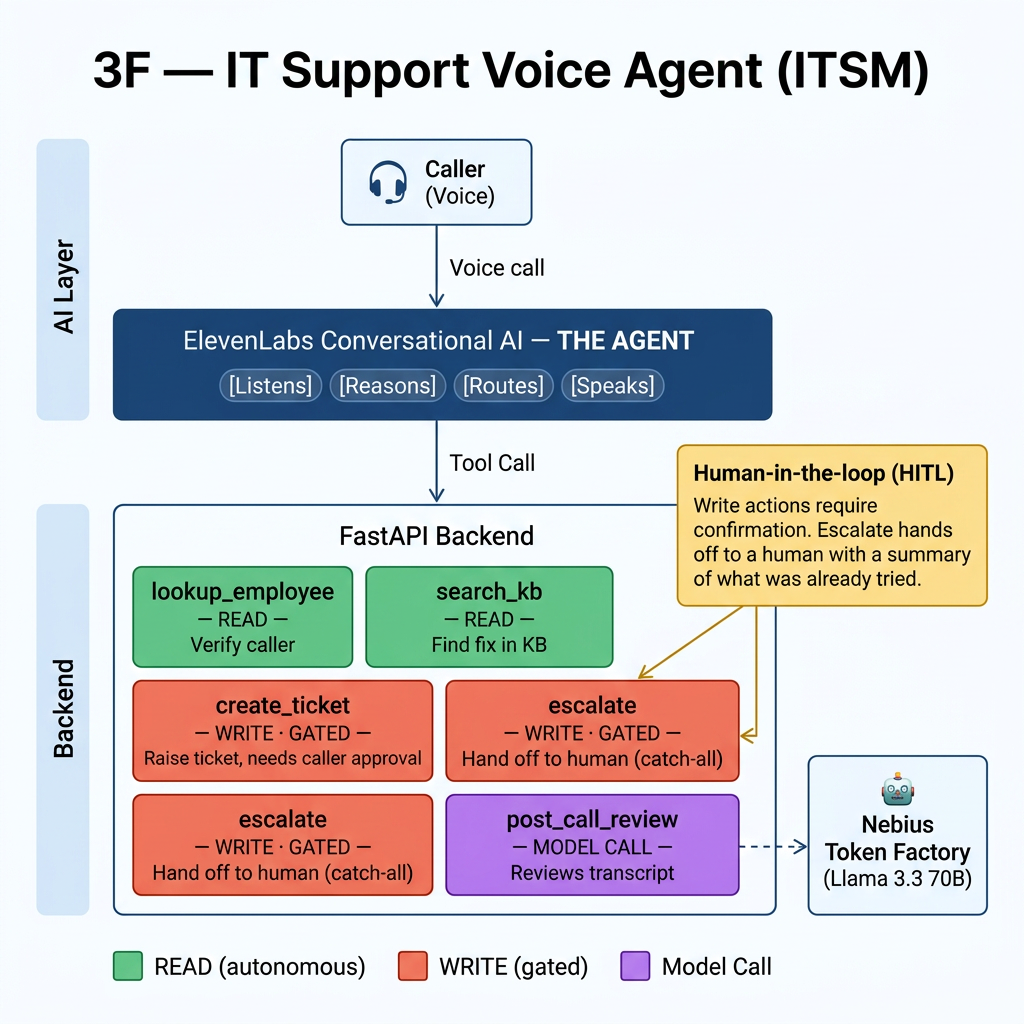
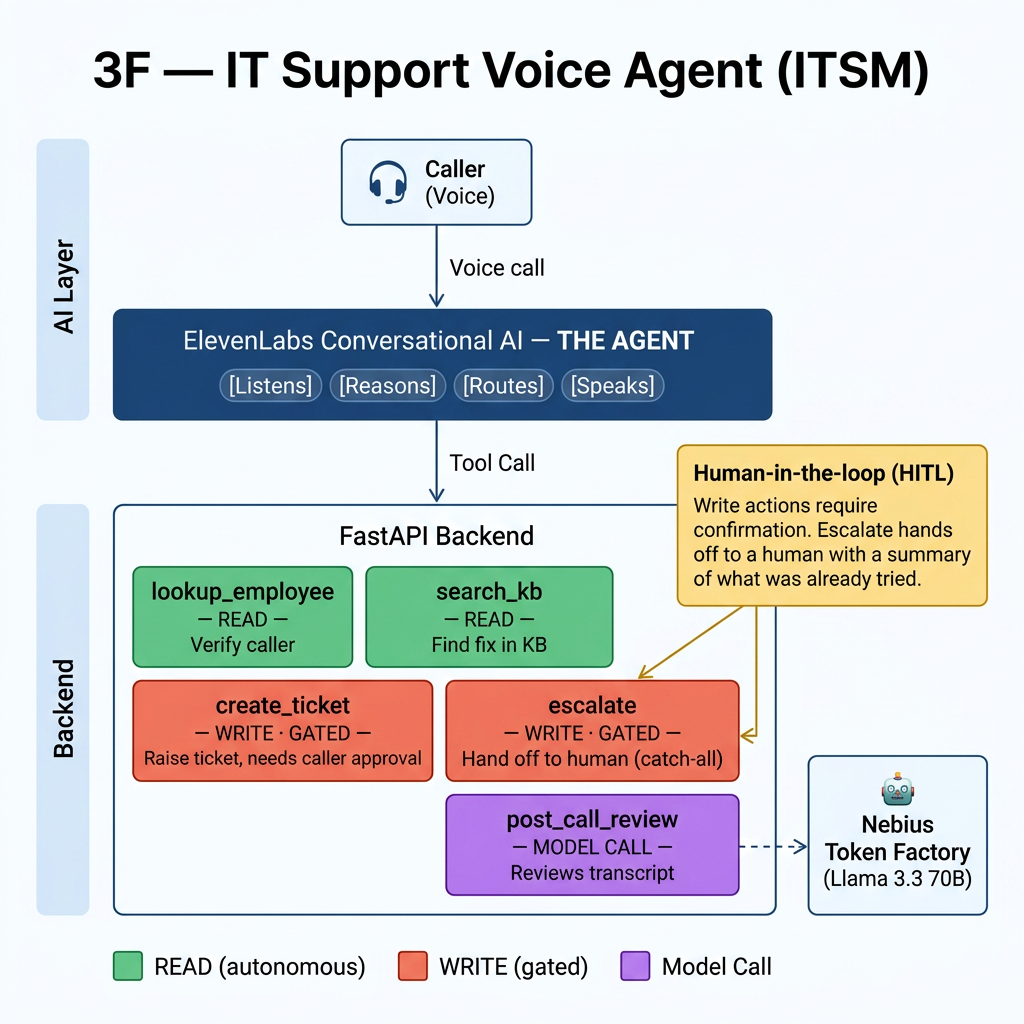
Fix duplicate escalate box in architecture diagram (five endpoints, not six); add held-out results chart

Changed region(s): [[0.125, 0.75, 0.4375, 0.875]]

diff --git a/README.md b/README.md
@@ -175,6 +175,9 @@ Full evaluation write-up: [`EVALUATION_REPORT.md`](./EVALUATION_REPORT.md)
 
 ## Evaluation Results
 
+![Routing accuracy: 95.7% baseline, 100% after two fixes, 80% on the held-out validation split](./results-heldout.png)
+
+
 Last verified run: 17 July 2026
 LangSmith experiment: `id15-recheck-2026-07-17-18a1b50f` (project: `3f-routing-eval`, dataset: `3f-routing-golden-v1`, 28 cases)
 
